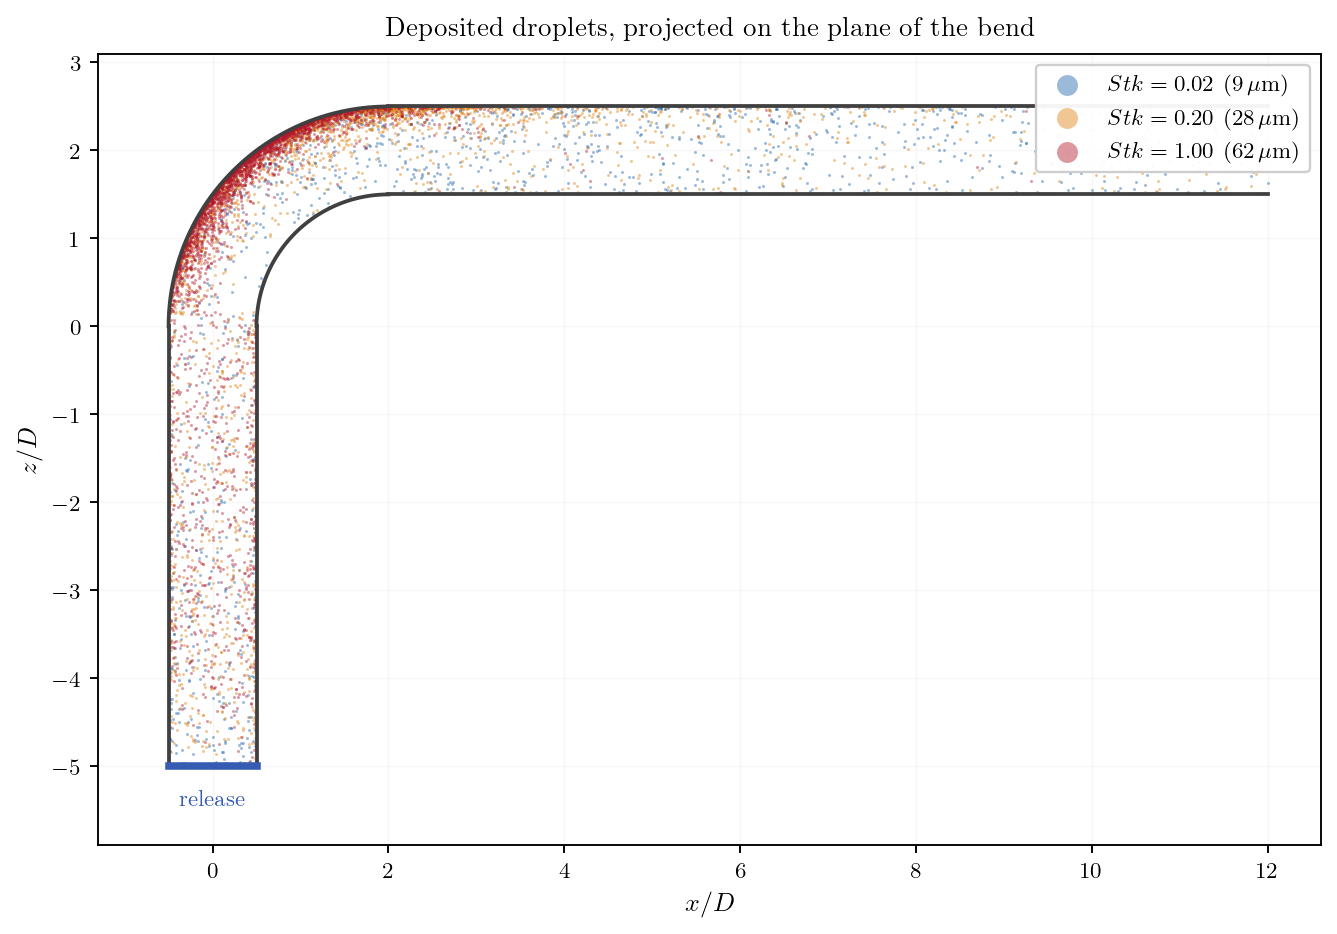
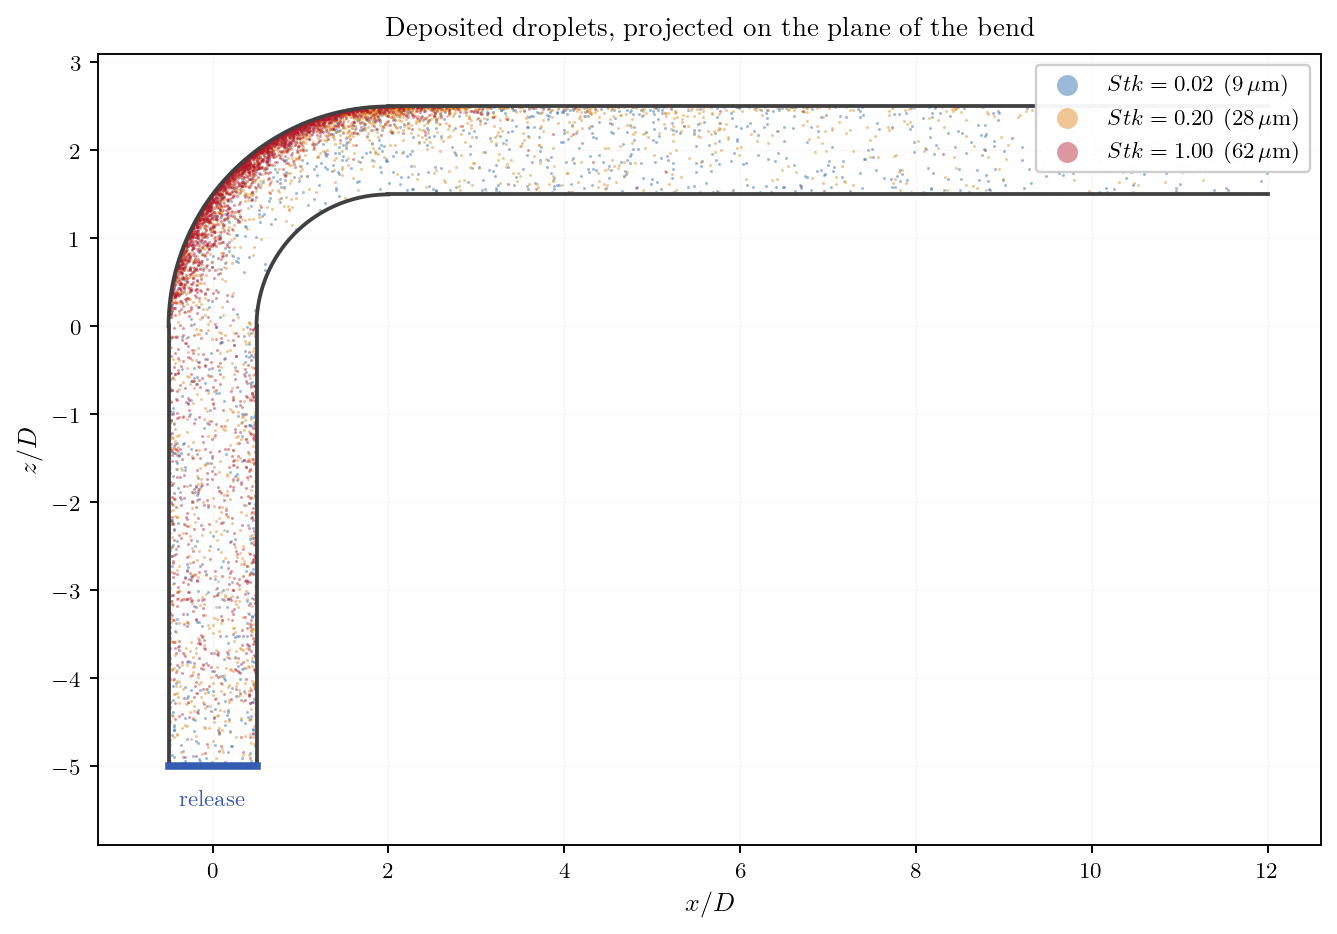
fix: declare the carrier steady in Lag_Bend_Deposition and correct its README
The particle case switched the wall statistics on but never declared the
carrier flow steady, so nothing accumulated: every accumulator is reset at
each time step and the fields written out held a single instant. The README
described this as a quirk of the module, which it is not.

That switch is not cosmetic. modcpl defaults to 1 when turbulent dispersion
is active, and the complete dispersion model reads the mean particle
velocity back out of the statistics, so the setting also acts on the
trajectories. The deposited fractions and the three deposition figures are
therefore regenerated from the corrected run: the lightest class moves from
46 to 44 percent, the other two are unchanged to the point.

The README keeps one line on the subject and points to Lag_Dispersion_Plume,
where the statistics are the topic, rather than carrying solver internals
that this tutorial does not need.

Changed region(s): [[0.1227, 0.0931, 0.7666, 0.8073], [0.828, 0.1863, 0.8586, 0.2173]]

diff --git a/70_lagrangian/Lag_Bend_Deposition/README.md b/70_lagrangian/Lag_Bend_Deposition/README.md
@@ -15,8 +15,8 @@ Stokes number, and the case shows how the deposition pattern changes from
 
 It is a **demonstration**, not a validation: nothing here is compared with
 reference data, and the numbers depend on a modelling choice that is stated
-plainly below. What the case does show is the workflow, the options that matter,
-and two traps that would quietly cost you the result.
+plainly below. What the case does show is the workflow and the options that
+matter.
 
 Maintained by [Simvia](https://Simvia.tech/fr), part of the
 [tutoriel-code_saturne](https://github.com/simvia-tech/tutorials-code_saturne) collection.
@@ -27,7 +27,7 @@ After completing this tutorial you will be able to:
 
 1. Add **Lagrangian tracking** on top of an existing RANS computation, by restarting on a **frozen carrier field**.
 2. Define **particle classes**, release them from a boundary zone, and set the **particle-wall interaction** on every boundary.
-3. Know the difference between the two deposition conditions, and why one of them destroys the very information you are after.
+3. Know the difference between the two deposition conditions, and why only one of them leaves a map to read.
 4. Read a **deposition map** out of the results, in pipe coordinates.
 
 ## Prerequisites
@@ -221,9 +221,9 @@ streamlines and hit.
 
 | $Stk$ | Deposited | In the bend | Upstream tangent | Downstream tangent |
 |---:|---:|---:|---:|---:|
-| $0.02$ | $46\%$ | $25\%$ | $25\%$ | $51\%$ |
-| $0.20$ | $88\%$ | $49\%$ | $21\%$ | $30\%$ |
-| $1.00$ | $99\%$ | $74\%$ | $21\%$ | $5\%$ |
+| $0.02$ | $44\%$ | $25\%$ | $28\%$ | $48\%$ |
+| $0.20$ | $88\%$ | $49\%$ | $22\%$ | $30\%$ |
+| $1.00$ | $99\%$ | $75\%$ | $21\%$ | $5\%$ |
 
 Read the columns rather than the first number. The deposited fraction is high
 throughout because the wall is perfectly sticky; what changes with the Stokes
@@ -231,13 +231,12 @@ number is **where** the droplets are caught. Between $Stk = 0.02$ and $Stk = 1$
 the share caught in the bend triples while the share reaching the downstream
 tangent falls by a factor of ten.
 
-## Three things worth knowing
+## Two things worth knowing
 
 | Point | Why it matters |
 |---|---|
 | There are two deposition conditions | `deposit1` removes the droplet from the computation, `deposit2` fixes it on the wall and keeps it. Only the second leaves a map to look at: with the first, the deposits vanish as they are created |
-| The wall statistics are not the map | The module can accumulate per-face statistics (deposited mass flux, impact angle, impact velocity) and they are written per class. In this configuration they held only the events of the last time step, so the map here is built from the deposited droplets themselves |
-| The module needs a turbulence model | It reads the turbulent kinetic energy without checking that the field exists, so a Lagrangian computation on a laminar carrier stops on a memory fault. Not a constraint here, since the carrier is a RANS computation, but it explains why the settling tutorial of this section activates a turbulence model on a fluid at rest |
+| The map here is the droplets, not the wall statistics | The module can also accumulate per-face statistics, and this case switches them on, but the maps above are built from the deposited droplets themselves, which is the direct reading. Statistics are the subject of [Lag_Dispersion_Plume](../Lag_Dispersion_Plume) |
 
 ## Summary
 
